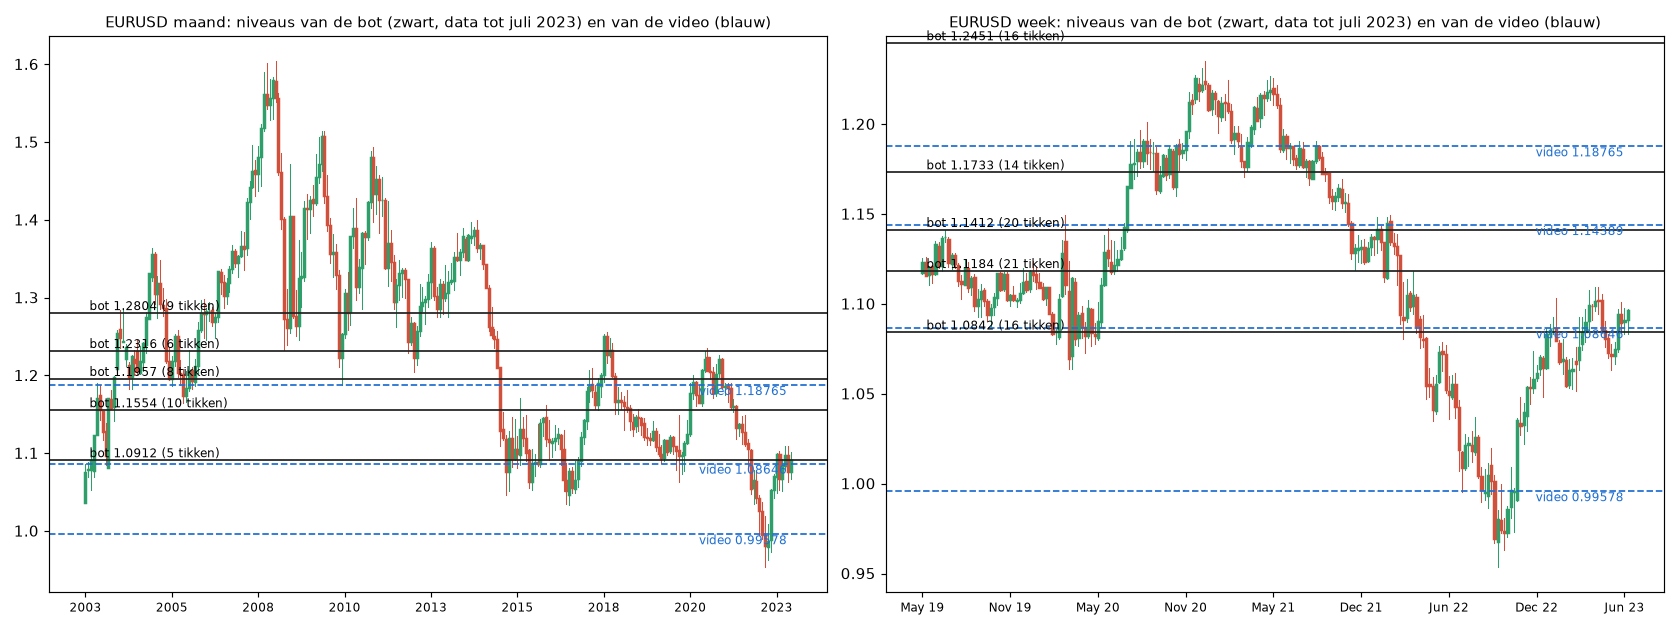
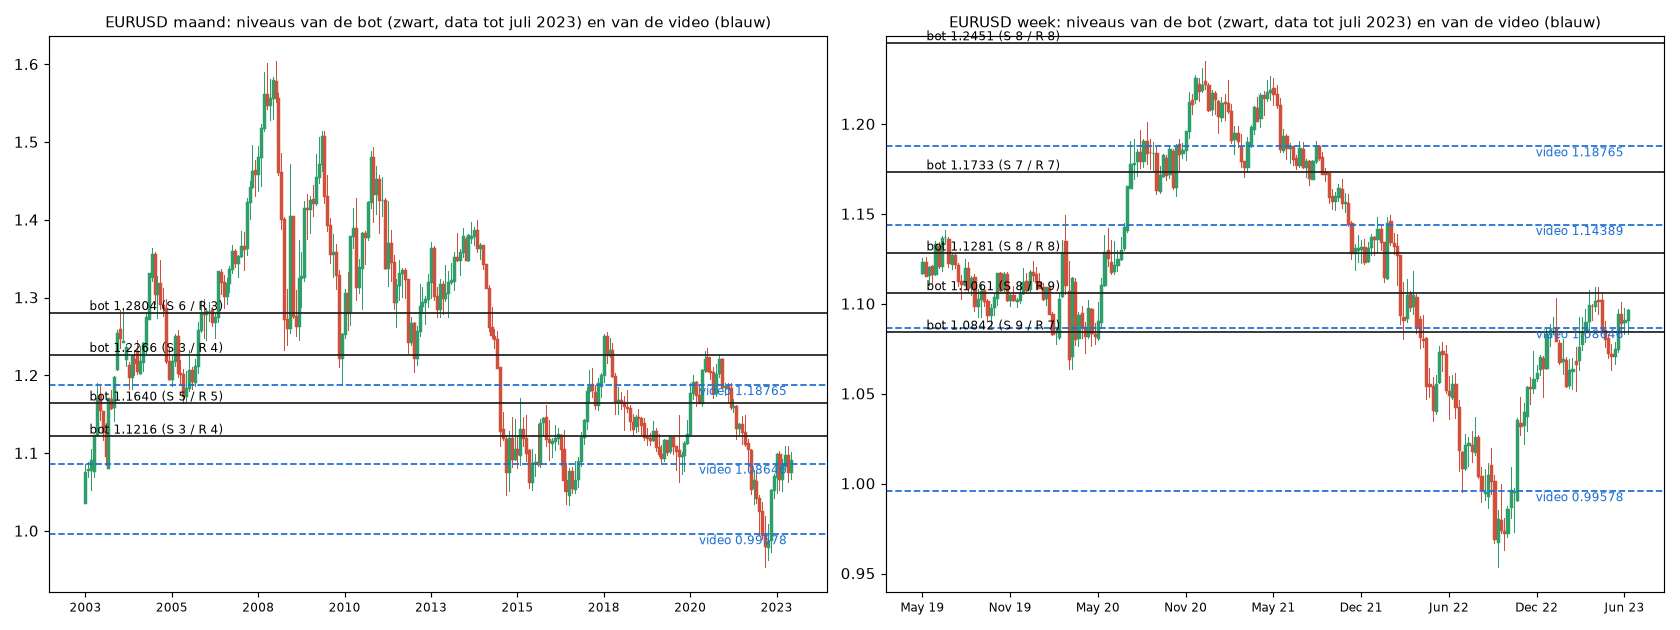
S/R levels: a level must have held as support AND resistance; ranked by the weaker side
Claude-Session: https://claude.ai/code/session_01SW7JSK2rwSPWW7DS3yzjqN

diff --git a/research/strategy/sr_levels.py b/research/strategy/sr_levels.py
@@ -5,7 +5,8 @@ bot (MT5 history at start-up, then each new completed candle) and the backtest g
 
 Method (video 1): a level is a price where many candles turned ("taps"): swing highs and lows, wick or
 body, and role flips (throw-over / deviation and back) count too. More taps = stronger. Keep few levels
-(the strongest, spread out), and the ones near the current price matter most.
+(the strongest, spread out), and the ones near the current price matter most. A level counts only if it
+held as support AND as resistance (min_each taps on both sides); ranked by the weaker side, then the total.
 """
 import numpy as np
 
@@ -16,8 +17,8 @@ def _swings(h, l, n):
     return hi, lo
 
 
-def levels(c, n_swing=2, tol_atr=0.25, min_taps=3, max_levels=4, sep_atr=1.0, near_atr=None):
-    """c: dict of numpy arrays open/high/low/close (oldest first). Returns [(price, taps)].
+def levels(c, n_swing=2, tol_atr=0.25, min_each=2, max_levels=4, sep_atr=1.0, near_atr=None):
+    """c: dict of numpy arrays open/high/low/close (oldest first). Returns [(price, support_taps, resistance_taps)].
 
     A tap at price p = a swing high/low candle whose wick or body edge lies within tol of p (it turned
     there; a throw-over that came back is also a swing). Candidates are those same wick and body edges. Levels are taken strongest first, at least sep_atr apart; with near_atr only
@@ -31,20 +32,24 @@ def levels(c, n_swing=2, tol_atr=0.25, min_taps=3, max_levels=4, sep_atr=1.0, ne
     hi, lo = _swings(h, l, n_swing)
     cands = sorted(set([h[i] for i in hi] + [max(o[i], cl[i]) for i in hi] +
                        [l[i] for i in lo] + [min(o[i], cl[i]) for i in lo]))
-    # a tap = a distinct swing candle (wick or body edge) that turned within tol of p
-    pts = np.array([h[i] for i in hi] + [l[i] for i in lo] + [max(o[i], cl[i]) for i in hi] + [min(o[i], cl[i]) for i in lo])
-    idx = np.array(hi + lo + hi + lo)
-    scored = [(len(set(idx[np.abs(pts - p) <= tol])), p) for p in cands]
+    # resistance tap = a swing HIGH candle (wick or body top) that turned within tol of p;
+    # support tap = a swing LOW candle (wick or body bottom). A strong level was both (role flip).
+    rp = np.array([h[i] for i in hi] + [max(o[i], cl[i]) for i in hi]); ri = np.array(hi + hi)
+    sp = np.array([l[i] for i in lo] + [min(o[i], cl[i]) for i in lo]); si = np.array(lo + lo)
+    scored = []
+    for p in cands:
+        s_t = len(set(si[np.abs(sp - p) <= tol])) if len(sp) else 0
+        r_t = len(set(ri[np.abs(rp - p) <= tol])) if len(rp) else 0
+        scored.append((s_t, r_t, p))
     last = cl[-1]
+    scored = [x for x in scored if min(x[0], x[1]) >= min_each]
     if near_atr is not None:
-        scored = [x for x in scored if abs(x[1] - last) <= near_atr * atr]
-    scored.sort(key=lambda x: (-x[0], abs(x[1] - last)))
+        scored = [x for x in scored if abs(x[2] - last) <= near_atr * atr]
+    scored.sort(key=lambda x: (-min(x[0], x[1]), -(x[0] + x[1]), abs(x[2] - last)))
     out = []
-    for taps, p in scored:
-        if taps < min_taps:
-            break
-        if all(abs(p - q) > sep_atr * atr for q, _ in out):
-            out.append((float(p), int(taps)))
+    for s_t, r_t, p in scored:
+        if all(abs(p - q) > sep_atr * atr for q, _, _ in out):
+            out.append((float(p), int(s_t), int(r_t)))
         if len(out) >= max_levels:
             break
     return out

diff --git a/research/strategy/plot_levels.py b/research/strategy/plot_levels.py
@@ -13,8 +13,8 @@ for ax, tf, start in [(axs[0], "MN", "2003-01-01"), (axs[1], "W1", "2019-05-01")
         col = "#2e9e6b" if r.close >= r.open else "#d0503c"
         ax.plot([i, i], [r.low, r.high], color=col, lw=0.7)
         ax.add_patch(Rectangle((i - 0.35, min(r.open, r.close)), 0.7, abs(r.close - r.open) or 1e-9, color=col))
-    for p, t in lv:
-        ax.axhline(p, color="#222", lw=1.2); ax.text(0, p, f" bot {p:.4f} ({t} tikken)", va="bottom", fontsize=8)
+    for p, st, rt in lv:
+        ax.axhline(p, color="#222", lw=1.2); ax.text(0, p, f" bot {p:.4f} (S {st} / R {rt})", va="bottom", fontsize=8)
     vid = [1.18765, 1.08646, 0.99578] + ([1.14389] if tf == "W1" else [])
     for p in vid:
         ax.axhline(p, color="#1f6fd1", lw=1.2, ls="--"); ax.text(len(v) - 1, p, f"video {p} ", ha="right", va="top", fontsize=8, color="#1f6fd1")
